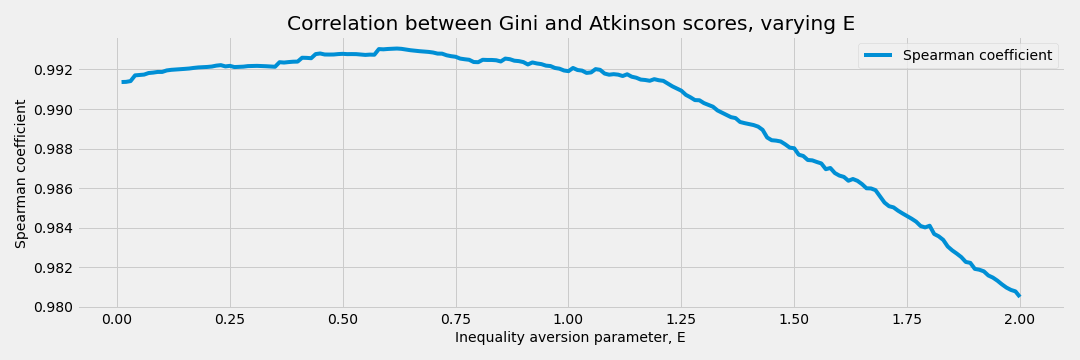
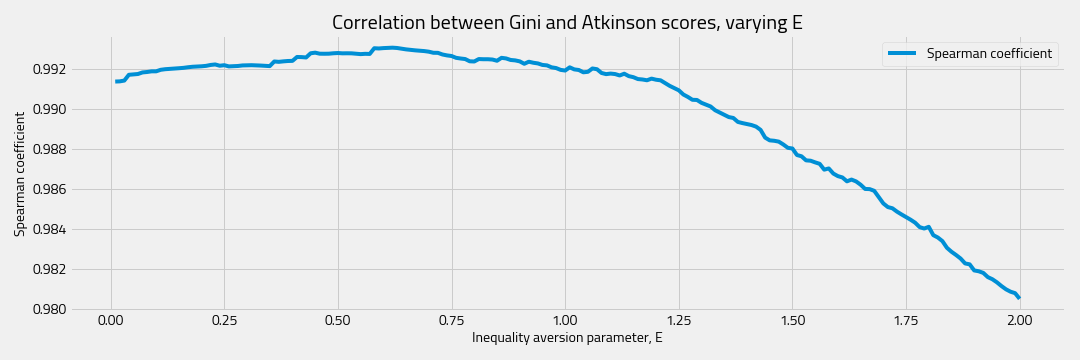
graphics updated

diff --git a/code/generalised mean.py b/code/generalised mean.py
@@ -10,6 +10,13 @@ import pandas as pd
 import matplotlib.pyplot as plt
 import math
 from scipy.stats import gmean
+from matplotlib.ticker import FuncFormatter
+
+# Function to format the y-axis labels
+def axis_format(y, pos):
+    return f'{int(y):,}'
+
+
 
 #### PLOTTING GENERALISED MEANS
 
@@ -26,16 +33,7 @@ def generalised_mean2(x, p):
         return gmean(x)
     else:    
         return (np.sum(np.power(x,p)) / len(x))**(1/p)
-
-def generalised_mean_dist(x, p):
-    array = [2,4,6,8]
-    array[1] = x
-    if p == 0:
-        return geometric(x)
-    else:
-        np.sum(np.power(array,p)) / len()
-        
-        
+                
 def generalised_mean3(dist,x,position,p):
     dist[position] = x
     dist = np.array(dist, dtype=float)  # Ensure dist elements are floats
@@ -45,23 +43,6 @@ def generalised_mean3(dist,x,position,p):
         return (np.sum(np.power(dist,p)) / len(dist))**(1/p)
 
 E_array = [0,0.25,0.75,1,2,4]
-
-# Plotting generalised (1,x)
-x_array = np.arange(0,4.01,0.01)
-two_value_dist = [1,2]
-plt.figure(figsize=(10,10))
-for E in E_array:
-    p = 1 - E
-    plt.plot(x_array, np.array([generalised_mean3(two_value_dist, x, 1, p) for x in x_array]),
-             label = f'E = {E} (p = {p})')
-plt.title('Varying E for generalised means of simple mean of 1 and x')
-plt.xlabel('(1,x)')
-plt.ylabel('Generalisd mean')
-plt.tight_layout()
-plt.grid()
-plt.legend()
-plt.show()
-
 
 
 def plot_generalised_means(dist, position, x_range, E_array):
@@ -80,9 +61,10 @@ def plot_generalised_means(dist, position, x_range, E_array):
        plt.plot(x_array, np.array([generalised_mean3(dist, x, position, p) for x in x_array]),
                 label = f'E = {E} (p = {p})')
    plt.yticks(np.arange(0,y_max))
-   plt.title(f'Varying E for generalised means {dist_title}')
-   plt.ylabel('Generalisd mean')
-   plt.xlabel('x')
+   plt.title(f'Varying E for generalised means {dist_title}', fontsize = 30,  color = '#1D5B79')
+   plt.ylabel('Generalisd mean', fontsize = 25)
+   plt.xlabel('x', fontsize = 25)
+   plt.tick_params(axis='both', which='major', labelsize=20)  # Adjust font size for x and y axes
    plt.tight_layout()
    plt.grid(True)
    plt.legend(loc = 'lower right')
@@ -120,11 +102,16 @@ df = df[df['year'] == df.groupby('country')['year'].transform('max')]
 df = df.groupby('country').filter(lambda x: x['RRinc'].notna().all())
 
 # Countries I want to look at
-countries = ['United States','Sweden','Czech Republic','Brazil','Nigeria','Armenia']
+countries = ['Nigeria','Brazil','United States','Sweden','Armenia','Czech Republic']
 
 df_subset = df[df['country'].isin(countries)]
 
-plt.figure(figsize=(10,10))
+E_array = np.arange(0,10.1,0.1)
+
+# Use the 'fivethirtyeight' style for the plot
+plt.style.use("fivethirtyeight")
+
+plt.figure(figsize=(40,32))
 for country in countries:
     mean_results = []
     value = df_subset[df_subset['country'] == country].iloc[:,10]
@@ -133,13 +120,18 @@ for country in countries:
     for E in E_array:
         p = 1 - E
         mean_results.append(generalised_mean2(value,p))
-    plt.plot(E_array,mean_results, label = f'{country}')
-    plt.xscale('log')
-    plt.yscale('log')
-    plt.title('Generalised mean of countries\' income distributions')
-    plt.ylabel('Generalised mean ($)')
-    plt.xlabel('Inequality aversion parameter (E)')
-    plt.legend()
+    plt.plot(E_array,mean_results, linewidth = 15)
+plt.xscale('log')
+plt.yscale('log')
+# Use FuncFormatter to format the y-axis labels
+plt.gca().yaxis.set_major_formatter(FuncFormatter(axis_format))
+plt.gca().xaxis.set_major_formatter(FuncFormatter(axis_format))
+plt.ylim(0,100000)
+plt.xlim(0,4)
+plt.tick_params(axis='both', which='major', labelsize=60)  # Adjust font size for x and y axes
+plt.title('Generalised mean of countries\' income distributions',fontsize=90, pad=50, loc='left',  color = '#1D5B79')
+plt.ylabel('Generalised mean ($)', fontsize=60, labelpad=30)
+plt.xlabel('Inequality aversion parameter (E)', fontsize=60, labelpad=30)
 plt.grid(True)
 plt.tight_layout()
 plt.savefig('viz/generalised means countries.png')

diff --git a/code/utility function.py b/code/utility function.py
@@ -29,16 +29,6 @@ def marginal_utility(income, elasticity):
 I = np.arange(1, 100000)  # Start from 1 to avoid log(0)
 
 
-elasticity = 1
-utils = utility(I,elasticity)
-
-plt.plot(I, utils, label='$U(I) = \ln(I)$')
-plt.title('Utility Function')
-plt.xlabel('Income')
-plt.ylabel('Utility')
-plt.grid(True)
-plt.legend()
-
 #### multiple elasticities
 # List of different elasticity values
 elasticities = [0, 0.8, 0.9, 1, 1.1, 1.2]
@@ -51,12 +41,8 @@ plt.figure(figsize=(15, 5))
 plt.subplot(1, 2, 1)
 for elasticity in elasticities:
     utils = utility(I, elasticity)
-    if elasticity == 1:
-        plt.plot(I, utils, label='$U(I) = \ln(I)$')
-    else:
-        plt.plot(I, utils, label=f'$\\rho = {elasticity}$')
-
-plt.title('Utility Function of Income for Different Elasticities')
+    plt.plot(I, utils, label=f'$\\rho = {elasticity}$')
+plt.title('Utility Function of Income for Different Elasticities', color = '#1D5B79')
 plt.xlabel('Income')
 plt.ylabel('Utility')
 plt.yscale('log')
@@ -67,12 +53,10 @@ plt.legend(loc = 'upper right')
 plt.subplot(1, 2, 2)
 for elasticity in elasticities:
     MU = marginal_utility(I, elasticity)
-    if elasticity == 1:
-        plt.plot(I, MU, label='$U(I) = \ln(I)$')
-    else:
-        plt.plot(I, MU, label=f'$\\rho = {elasticity}$')
+    plt.plot(I, MU, label=f'$\\rho = {elasticity}$')
+    
 
-plt.title('Marginal Utility of Income for Different Elasticities')
+plt.title('Marginal Utility of Income for Different Elasticities', color = '#1D5B79')
 plt.xlabel('Income')
 plt.ylabel('Marginal Utility')
 plt.yscale('log')

diff --git a/code/visualising real inequalities.py b/code/visualising real inequalities.py
@@ -50,12 +50,13 @@ plt.style.use("fivethirtyeight")
 # Set the size of the figure
 plt.figure(figsize=(40, 32))
 
+
 # Create the line plot
-scatter = sns.lineplot(
+line = sns.lineplot(
     x='group', y='RRinc', 
     hue='country', 
     data=df_subset,
-    linewidth=5,
+    linewidth=15,
     legend='full'
 )
 
@@ -66,12 +67,16 @@ plt.yscale('log')
 plt.gca().yaxis.set_major_formatter(FuncFormatter(yaxis_format))
 
 # Adjust font size of plot elements
-plt.tick_params(axis='both', which='major', labelsize=40)  # Adjust font size for x and y axes
-plt.legend(title='Country', title_fontsize=40, fontsize=30, markerscale=3,
+plt.tick_params(axis='both', which='major', labelsize=60)  # Adjust font size for x and y axes
+plt.legend(title='Country', title_fontsize=60, fontsize=40, markerscale=5,
            frameon=True, facecolor='#FCFCFC')
-plt.xlabel('Income decile', fontsize=50, labelpad=30)
-plt.ylabel('Real annual income ($)', fontsize=50, labelpad=30)
-plt.title('Income per decile for selected countries in 2008', fontsize=60, pad=50, loc='left')
+plt.xlabel('Income decile', fontsize=60, labelpad=30)
+plt.ylabel('Real annual income ($)', fontsize=60, labelpad=30)
+plt.ylim(80,100000)
+plt.title('Income per decile for selected countries', fontsize=90, pad=50, loc='left',  color = '#1D5B79')
+#plt.tight_layout()
+
 plt.savefig('viz/real income distributions.png')  # Save the figure
 # Show the plot
 plt.show()
+

diff --git a/code/plot inequality.py b/code/plot inequality.py
@@ -61,9 +61,10 @@ def plot_inequality(dist, position, x_range, E_array):
             plt.plot(x_array, np.array([atkinson(dist, x, position, E) for x in x_array]),
                      label = f'E = {E}')
    plt.yticks(np.arange(0,1.1,0.1))
-   plt.title(f'Varying E for generalised means {dist_title}')
-   plt.ylabel('Generalisd mean')
-   plt.xlabel('x')
+   plt.title(f'Varying E for generalised means {dist_title}', fontsize = 30,  color = '#1D5B79')
+   plt.ylabel('Generalisd mean', fontsize = 25)
+   plt.xlabel('x', fontsize = 25)
+   plt.tick_params(axis='both', which='major', labelsize=20)  # Adjust font size for x and y axes
    plt.tight_layout()
    plt.grid(True)
    plt.legend(loc = 'lower right')

diff --git a/README.md b/README.md
@@ -2,14 +2,13 @@
 
 ![Image: Income distributions of the United States, Sweden, Czechia, Brazil, Armenia and Nigeria](viz/real%20income%20distributions.png)
 
-There are many ways of measuring inequality in an income distribution. One of the best known ways is the **Gini coefficient**. Taking values from 0 to 1, it is calculated as "the expected gap as a share of twice the mean income." In other words, if you were to find two random people on the street, what is the expected difference in their incomes (relative to the average income in that population)? This is a pure calculation of the distribution of income in a population, but provides no information about whether that inequality is a result of a few extreme "haves", or of many "have-nots". Nor does it make any judgements about whether either type of inequality is more important.
+There are many ways of measuring inequality in an income distribution. Different measures have different trade-offs about the kind of information that needs to be preserved when aggregating an entire distribution into one number that represents the amount of inequality present within it.
 
-One inequality measure that does make such judgements is the **Atkinson index**. Its best known use is in the United Nations' inequality-adjusted Human Development Index (IHDI). Also taking values from 0 to 1, the Atkinson index's key difference is that it assumes a diminishing marginal utility of income. Thus, it actively de-emphasises inequality at the upper end of the distribution, putting more weight on differences between lower incomes. This assumption is regulated in the Atkinson by an "inequality aversion parameter", $\epsilon$. 
+One of the best known measures is the **Gini coefficient**. Taking values from 0 to 1, it is calculated as "the expected gap as a share of twice the mean income." In other words: if you were to find two random people on the street, what is the expected difference in their incomes, relative to the average income in that population? While it certainly captures how disparately income is distributed in a population, it provides no information about whether that inequality is a result of a few extreme "haves", or of many "have-nots". Nor does it make any judgements about whether either type of inequality is more important.
 
-In this repository, we explore how the Atkinson index works, its relationship to the utility function of income, how it reacts to changes in lower parts of the income distribution compared to higher parts and to what extent its results differ with Gini coefficients of real countries' income distributions.
+One inequality measure that does make such judgements is the **Atkinson index**. Its best known use is in the United Nations' [inequality-adjusted Human Development Index (IHDI)](https://en.wikipedia.org/wiki/List_of_countries_by_inequality-adjusted_Human_Development_Index). Also taking values from 0 to 1, the Atkinson index's key difference is that it assumes a diminishing marginal utility of income. This actively de-emphasises inequality at the upper end of the distribution, putting more weight on differences between lower incomes. This assumption is regulated in the Atkinson by an "inequality aversion parameter", $\epsilon$. 
 
-
-
+In this repository, we explore how the Atkinson index works, its relationship to the utility function of income, how it reacts to changes in lower parts of the income distribution compared to higher parts, how it reacts to real countries' income distributions and how it compares with the Gini coefficient when measuring identical distributions.
 
 
 ## Atkinson index and the marginal utility of income
@@ -75,9 +74,7 @@ And what of the effect of $\epsilon$ on how severely inequality is determined? W
 
 ## Effect of $\epsilon$ on the generalised means of real income distributions
 
-![Image: Income distributions of the United States, Sweden, Czechia, Brazil, Armenia and Nigeria](viz/real%20income%20distributions.png)
-![Image: Generalised means for real national income distribution](viz/generalised%20means%20countries.png)
-
+![Image: Income distributions vs. Generalised means for real national income distribution](viz/real%20income%20distributions%20vs%20generalised.png)
 
 Here, we introduce six countries all with different combinations of income and inequality levels, to help us understand the full variation in measuring income inequality. In the left plot, we can see each country's income distribution over ten deciles, while in the right plot, we plot the generalised means of their distributions at different levels of the inequality aversion parameter, $\epsilon$.
 
@@ -98,4 +95,5 @@ Having gained a more intuitive understanding of how the Atkinson measure reacts 
 
 Check out [**this repository**](https://github.com/tigran-sog/clustering-europe) where I decompose the index into its Human Development score and its Atkinson measure and use *k*-means clustering to categorise European countries based on their societal development and their inequality.
 
-![Image: European countries by human development and inequality](viz/plot%20k4.png)
+
+![Image: Scatter plot of European countries by human development and inequality, coloured by k-means clustering results](viz/k4%20plot.png)
